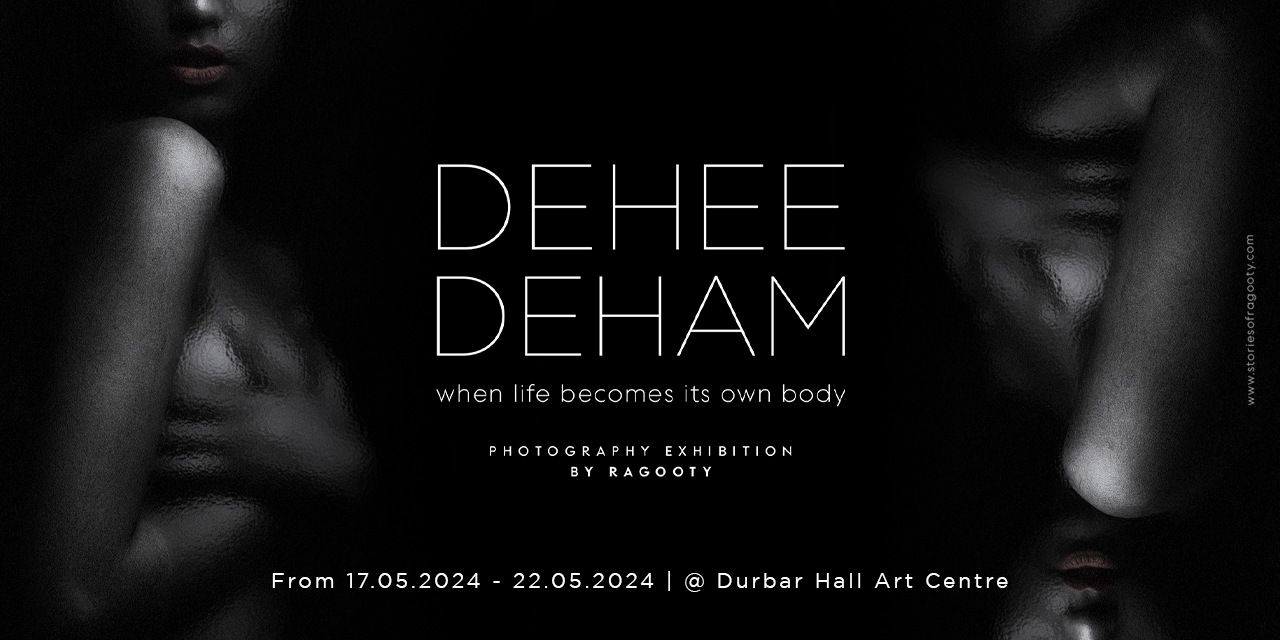
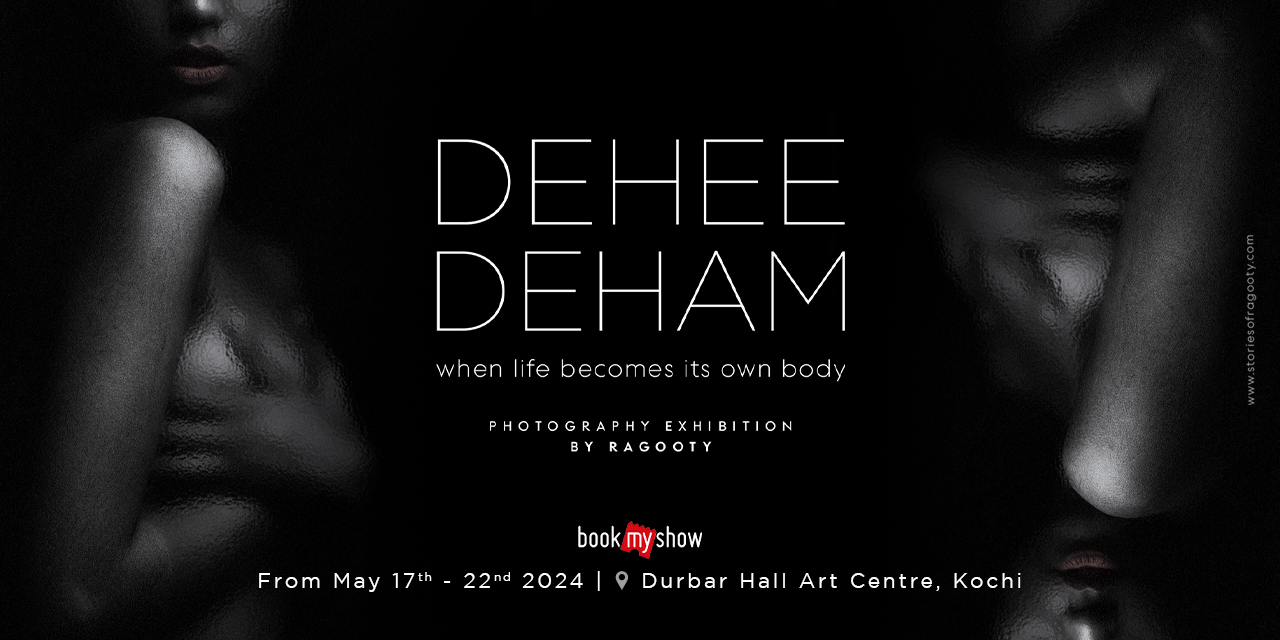
added bookmyshow

diff --git a/src/LinkTree/Deheedeham.js b/src/LinkTree/Deheedeham.js
@@ -1,14 +1,13 @@
 import React, { useState, useEffect } from "react";
-import "./Deheedeham.css"
+import "./Deheedeham.css";
 
 const ExpandingCard = ({ expanded }) => {
     return (
         <div className={`card text-center d-flex-column ${expanded ? 'expanded' : ''}`}>
-            {/* <h5 style={{ opacity: expanded ? 0 : 1, transition: 'opacity 0.3s ease-in-out' }}><br /></h5> */}
             <div className="expandable-content text-center">
-                <h1 className="dd_header" style={{ opacity: expanded ? 1 : 0, transition: 'opacity 1.3s ease-in-out' }}>DEHEEDHEHAM</h1>
+                <h1 className="dd_header mt-4 mb-2" style={{ opacity: expanded ? 1 : 0, transition: 'opacity 1.3s ease-in-out' }}>DEHEEDHEHAM</h1>
                 <h4 style={{ opacity: expanded ? 1 : 0, transition: 'opacity 1.3s ease-in-out' }}>when life becomes its own body
-                    <br /> <br /> <h5 className='eventvenue' style={{ opacity: expanded ? 1 : 0, transition: 'opacity 1.3s ease-in-out' }}>Photography Exhibition by Ragooty </h5>
+                    <h5 className='eventvenue mt-2' style={{ opacity: expanded ? 1 : 0, transition: 'opacity 1.3s ease-in-out' }}>Photography Exhibition by Ragooty </h5>
                 </h4>
             </div>
         </div>
@@ -41,18 +40,18 @@ const Deheedeham = () => {
                             <img src="./mob-banner.jpg" alt="" className="p-1 shadow banner-image img-fluid d-lg-none" style={{ opacity: expanded ? 1 : 0, transition: 'opacity 0.3s ease-in-out' }} />
                         </div>
                     </div>
-                    <div className="par text-center px-1 container-fluid" style={{ opacity: expanded ? 1 : 0, transition: 'opacity 0.3s ease-in-out' }}><p>The mind and body is known to coexist and respond mutually, body being the perishable physical vessel for the soul to experience the world. These photographs are visual representation of body being the equally expressive medium of one's life, just like the soul.</p></div>
-                    {/* <button className="bookbutton" >
-                        <h6>book your tickets here</h6>
-                        <img src="./image.png" alt="" className="p-1" style={{ opacity: expanded ? 1 : 0, transition: 'opacity 0.3s ease-in-out' }} />
-                    </button> */}
-
+                    <div className="par text-center px-1 container-fluid" style={{ opacity: expanded ? 1 : 0, transition: 'opacity 0.3s ease-in-out' }}>
+                        <p>The mind and body is known to coexist and respond mutually, body being the perishable physical vessel for the soul to experience the world. These photographs are visual representation of body being the equally expressive medium of one's life, just like the soul.</p>
+                    </div>
+                    <div className="text-center mt-1">
+                        <a href="https://in.bookmyshow.com/events/deheedeham-photography-exhibition-by-ragooty/ET00396777" target="_blank" rel="noopener noreferrer">
+                            <img src="./bookmyshow.png" alt="BookMyShow" className="img-fluid" style={{ width: '100px' }} />
+                        </a>  
+                    </div>
                 </div>
             </div>
-
         </div>
     );
 };
-
 
 export default Deheedeham;

diff --git a/src/LinkTree/Deheedeham.css b/src/LinkTree/Deheedeham.css
@@ -77,7 +77,7 @@ p {
     align-items: center;
     justify-content: center;
     /* width: 300px; */
-    padding-top: 50px;
+    padding-top: 20px;
 }
 
 
